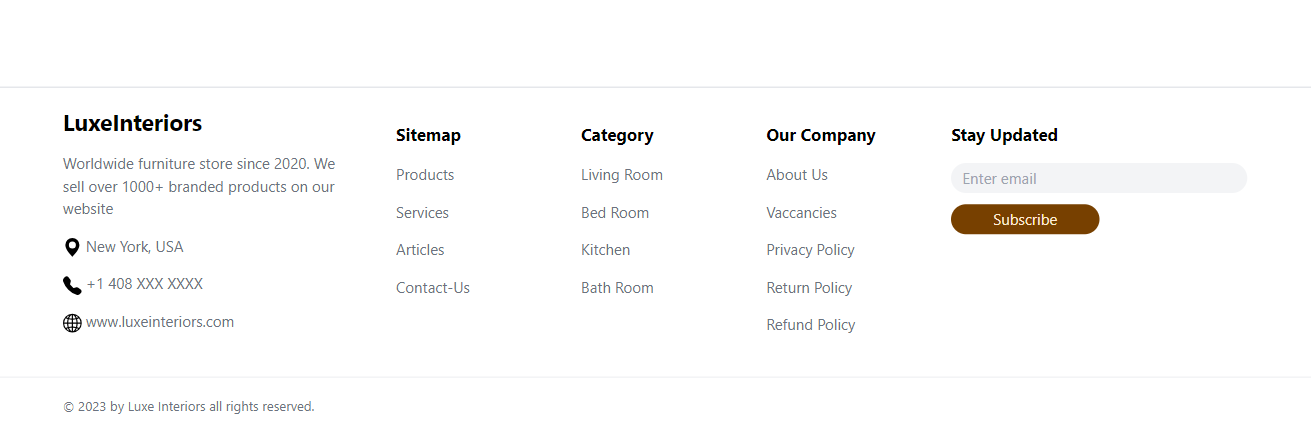
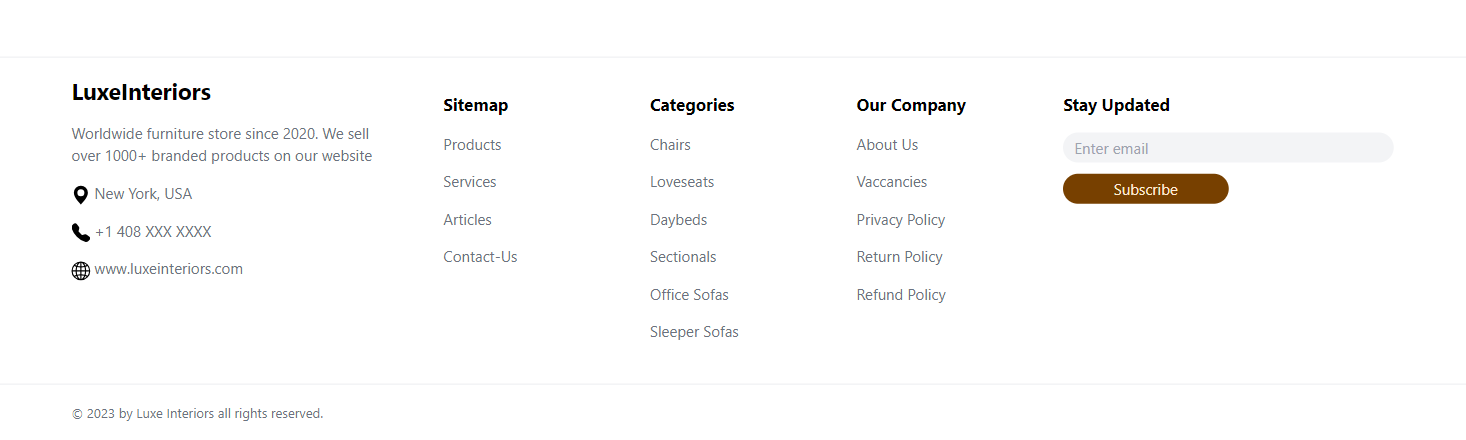
Updated the footer component

diff --git a/src/Components/Footer.jsx b/src/Components/Footer.jsx
@@ -1,5 +1,6 @@
 import { useState } from "react";
 import { useForm } from "react-hook-form";
+import { Link } from "react-router-dom";
 
 import { Resources } from "../assets/Resources";
 
@@ -32,15 +33,16 @@ export default function Footer() {
       <div className="w-full my-5 flex justify-center">
         <div className="bg-gray-200 h-px flex-1 sm:self-stretch"></div>
       </div>
+
       <section className="w-[90%] flex flex-wrap tablet:flex-nowrap tablet:justify-between">
         <div className="w-full tablet:w-[25%]">
           <p className="text-2xl font-bold">LuxeInteriors</p>
-          <p className="text-gray-500 my-4 text-base">
+          <p className="text-gray-500 my-4">
             Worldwide furniture store since 2020. We sell over 1000+ branded
             products on our website
           </p>
           <ul>
-            <li className="text-gray-500 my-4 text-base">
+            <li className="text-gray-500 my-4">
               <img
                 src={Resources.locationIcon}
                 alt="icon"
@@ -48,7 +50,7 @@ export default function Footer() {
               />{" "}
               New York, USA
             </li>
-            <li className="text-gray-500 my-4 text-base">
+            <li className="text-gray-500 my-4">
               <img
                 src={Resources.phoneIcon}
                 alt="icon"
@@ -56,7 +58,7 @@ export default function Footer() {
               />{" "}
               +1 408 XXX XXXX
             </li>
-            <li className="text-gray-500 my-4 text-base">
+            <li className="text-gray-500 my-4">
               <img
                 src={Resources.globeIcon}
                 alt="icon"
@@ -71,13 +73,13 @@ export default function Footer() {
           <div className="w-full my-4 tablet:w-[25%]">
             <p className="font-bold text-lg">Sitemap</p>
             <ul>
-              <li className="text-gray-500 my-4 text-base">
+              <li className="text-gray-500 my-4">
                 <a href="#">Products</a>
               </li>
-              <li className="text-gray-500 my-4 text-base">
+              <li className="text-gray-500 my-4">
                 <a href="#">Services</a>
               </li>
-              <li className="text-gray-500 my-4 text-base">
+              <li className="text-gray-500 my-4">
                 <a href="#">Articles</a>
               </li>
               <li className="text-gray-500 mt-4 mb-2">
@@ -87,19 +89,25 @@ export default function Footer() {
           </div>
 
           <div className="w-full my-4 tablet:w-[25%]">
-            <p className="font-bold text-lg">Category</p>
+            <p className="font-bold text-lg">Categories</p>
             <ul>
-              <li className="text-gray-500 my-4 text-base">
-                <a href="#">Living Room</a>
+              <li className="text-gray-500 my-4">
+                <Link to="/chairCollection">Chairs</Link>
               </li>
-              <li className="text-gray-500 my-4 text-base">
-                <a href="#">Bed Room</a>
+              <li className="text-gray-500 my-4">
+                <Link to="/loveseatCollection">Loveseats</Link>
               </li>
-              <li className="text-gray-500 my-4 text-base">
-                <a href="#">Kitchen</a>
+              <li className="text-gray-500 my-4">
+                <Link to="/daybedCollection">Daybeds</Link>
               </li>
-              <li className="text-gray-500 mt-4 mb-2 text-base">
-                <a href="#">Bath Room</a>
+              <li className="text-gray-500 mt-4 mb-2">
+                <Link to="/sectionalCollection">Sectionals</Link>
+              </li>
+              <li className="text-gray-500 mt-4 mb-2">
+                <Link to="/officeSofaCollection">Office Sofas</Link>
+              </li>
+              <li className="text-gray-500 mt-4 mb-2">
+                <Link to="sleeperSofaCollection">Sleeper Sofas</Link>
               </li>
             </ul>
           </div>
@@ -107,19 +115,19 @@ export default function Footer() {
           <div className="w-full my-4 tablet:w-[25%]">
             <p className="font-bold text-lg">Our Company</p>
             <ul>
-              <li className="text-gray-500 my-4 text-base">
+              <li className="text-gray-500 my-4">
                 <a href="#">About Us</a>
               </li>
-              <li className="text-gray-500 my-4 text-base">
+              <li className="text-gray-500 my-4">
                 <a href="#">Vaccancies</a>
               </li>
-              <li className="text-gray-500 my-4 text-base">
+              <li className="text-gray-500 my-4">
                 <a href="#">Privacy Policy</a>
               </li>
-              <li className="text-gray-500 my-4 text-base">
+              <li className="text-gray-500 my-4">
                 <a href="#">Return Policy</a>
               </li>
-              <li className="text-gray-500 mt-4 mb-2 text-base">
+              <li className="text-gray-500 mt-4 mb-2">
                 <a href="#">Refund Policy</a>
               </li>
             </ul>
@@ -150,9 +158,11 @@ export default function Footer() {
           </form>
         </div>
       </section>
+
       <div className=" my-5 flex justify-center w-full">
         <div className="bg-gray-200 h-px flex-1 sm:self-stretch"></div>
       </div>
+
       <p className="text-sm text-gray-500 w-[90%]">
         © 2023 by Luxe Interiors all rights reserved.
       </p>
